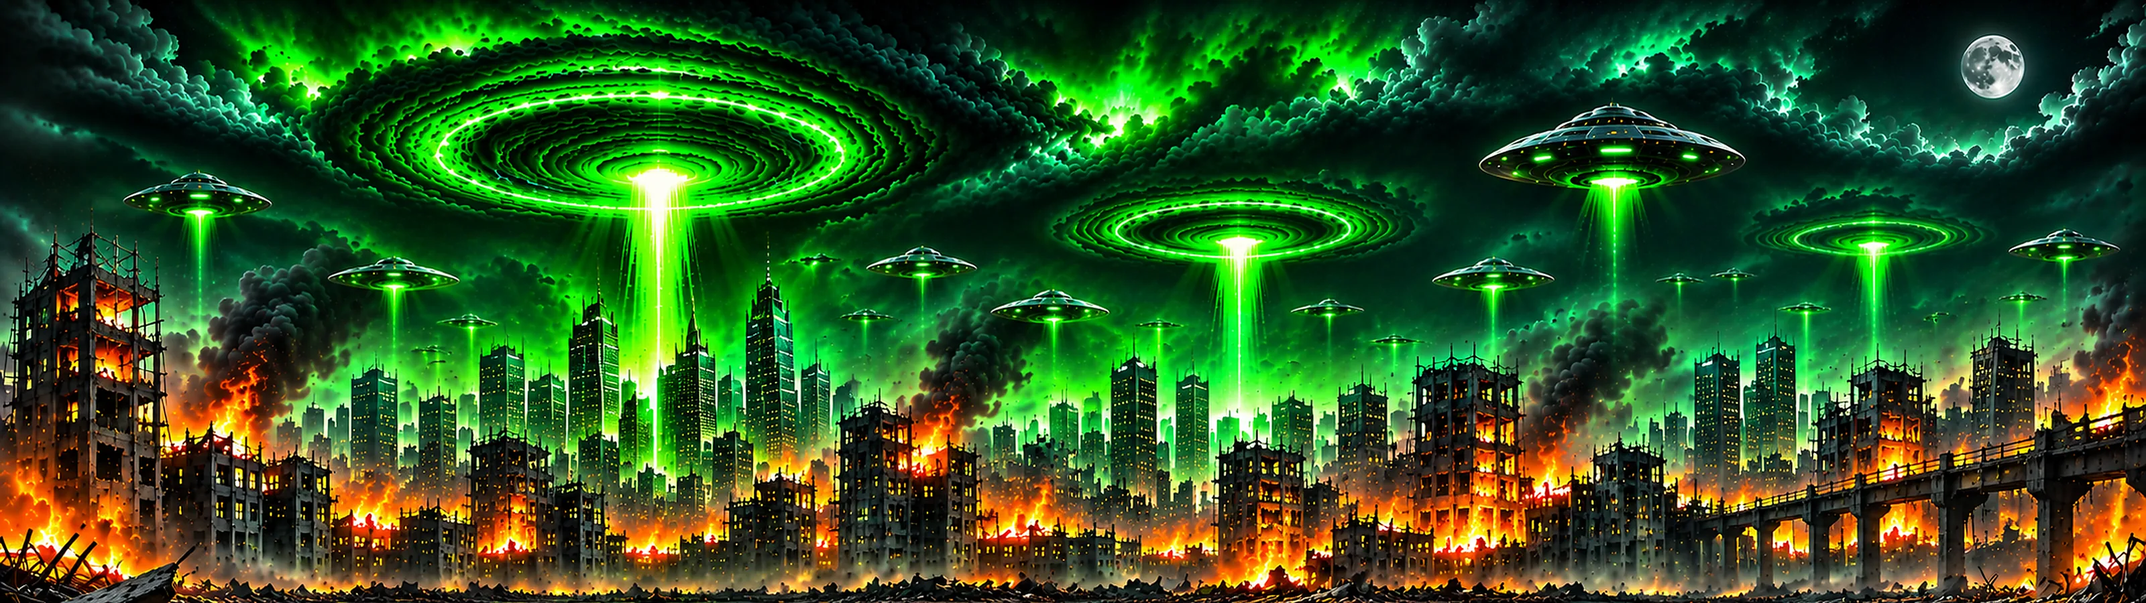
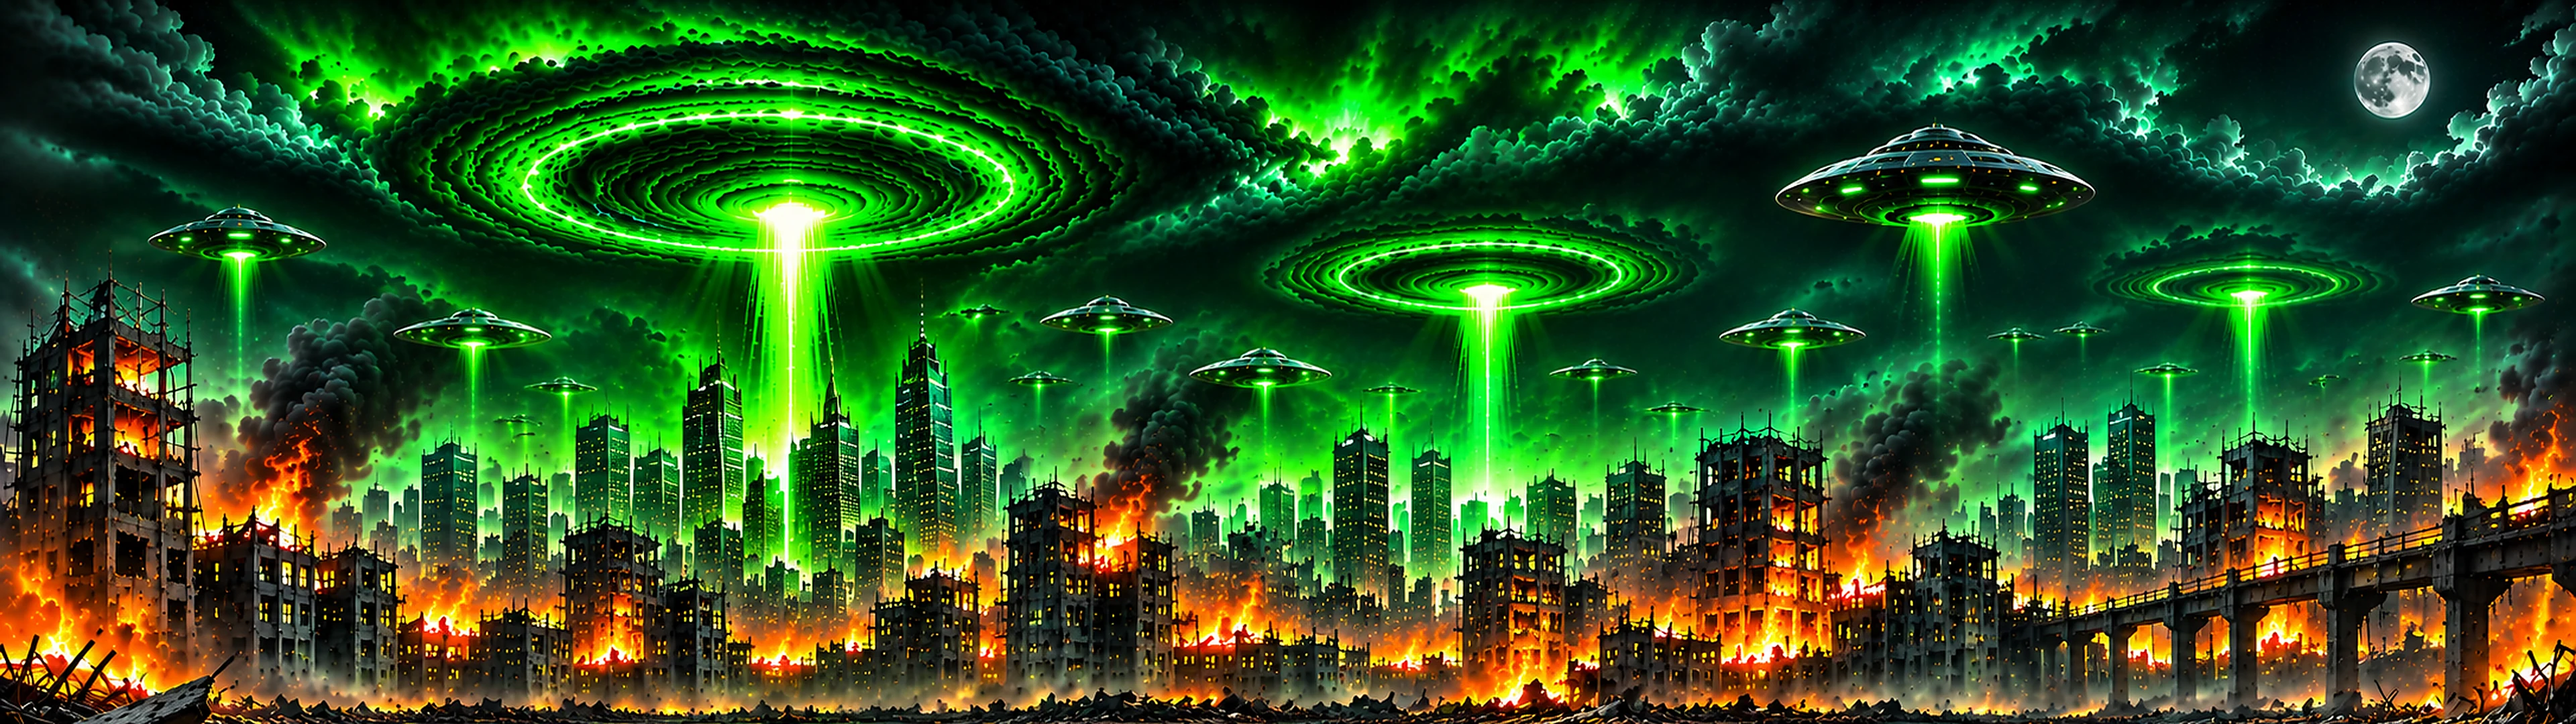
Invasión: el mapa vuelve a la lógica original (se mantienen las mejoras)
- El mapa es solo la cuadra otra vez: sin edificios ni fábricas a los costados.
- La cámara llega de 0 al ancho y de la calle a lo más alto, como al principio;
  la calle y el piso de adelante llenan la pantalla hasta abajo.
- Fondo (wallpaper) a resolución completa, sin pixelarse.
- Se mantienen explosiones, aliens, sangre por especie, autos, sonidos, etc.

Claude-Session: https://claude.ai/code/session_01WPvz5PN7gSQSsHQttdLk8C

diff --git a/src/features/games/invasionArt.ts b/src/features/games/invasionArt.ts
@@ -8,7 +8,7 @@
 // después se copia: así se puede dibujar con mucho detalle sin que se trabe.
 import { drawUfoCraftAt } from './kombatPenUfo';
 import {
-  alienKind, BLOOD, CITY_TOP, SIDE_W, GAME_SECONDS, hitbox, rainAt, ROCKET_TIME, type Rocket, ROAD_Y, ruinAt, SHOP_NAMES, UFO_FROM, type Building, type Furniture, type Invasion, type Item, type Room,
+  alienKind, BLOOD, CITY_TOP, GAME_SECONDS, hitbox, rainAt, ROCKET_TIME, type Rocket, ROAD_Y, ruinAt, SHOP_NAMES, UFO_FROM, type Building, type Furniture, type Invasion, type Item, type Room,
 } from './invasion';
 import { ANOMALIES } from './invasionAnomalies';
 import bazookaFxUrl from './assets/invasion/efectos/bazooka.webp';
@@ -34,148 +34,6 @@ function skyColors(t: number) {
   const low = mixColor(mixColor(mixColor('#e0f2fe', '#fcd34d', dusk * 0.8), '#4b5563', rain * 0.8), '#ea580c', k * 0.8);
   return { top, mid, low };
 }
-// ---------- Los edificios de los costados ----------
-// Más allá de la cuadra (antes de x = 0 y después del ancho) el escenario sigue con edificios cerrados (no se ve
-// adentro): torres, oficinas, locales con su cartel, una fábrica y obras en construcción con grúa. Son decorado:
-// no se rompen. Hay gente en las ventanas (siluetas que se mueven) y la vereda de adelante es parte de la calle,
-// así que caminan personas y aliens. Se arman siempre iguales (`sideBlocks`), hasta el final del mapa (`SIDE_W`).
-type SideKind = 'tower' | 'office' | 'shops' | 'factory' | 'works';
-interface SideBlock { x: number; w: number; h: number; kind: SideKind; hue: number; seed: number }
-const SIDE_KINDS: SideKind[] = ['tower', 'shops', 'works', 'office', 'factory', 'tower', 'shops', 'office', 'works', 'tower', 'factory', 'shops'];
-const SIDE_SIGNS = ['KIOSCO', 'FARMACIA', 'PANADERÍA', 'FERRETERÍA', 'BAR', 'PIZZERÍA', 'LAVADERO', 'CERRAJERÍA', 'ÓPTICA', 'ALMACÉN'];
-let sideCache: { width: number; blocks: SideBlock[] } | null = null;
-function sideBlocks(width: number) {
-  if (sideCache?.width === width) return sideCache.blocks;
-  const blocks: SideBlock[] = [];
-  // Hasta el final del mapa justo (`SIDE_W`): el último edificio se estira o se achica para terminar ahí.
-  for (const dir of [-1, 1]) {
-    let edge = dir < 0 ? -1.4 : width + 1.4;
-    const end = dir < 0 ? -SIDE_W : width + SIDE_W;
-    for (let i = 0; Math.abs(end - edge) > 0.5; i++) {
-      const seed = (dir < 0 ? 100 : 200) + i, kind = SIDE_KINDS[(i + (dir < 0 ? 0 : 5)) % SIDE_KINDS.length], q = hash(seed * 7.1);
-      let w = kind === 'factory' ? 18 + q * 7 : kind === 'shops' ? 10 + q * 5 : 10 + q * 5;
-      const left = Math.abs(end - edge);
-      if (left - w < 9) w = left; // el último llega hasta el borde
-      const h = kind === 'tower' ? 30 + q * 18 : kind === 'office' ? 24 + q * 14 : kind === 'works' ? 20 + q * 16 : kind === 'factory' ? 9 + q * 3 : 8.6 + q * 3;
-      const x = dir < 0 ? edge - w : edge;
-      blocks.push({ x, w, h, kind, hue: Math.floor(hash(seed * 3.3) * 360), seed });
-      if (w === left) break;
-      edge = dir < 0 ? x - (1.2 + hash(seed) * 1.6) : x + w + 1.2 + hash(seed) * 1.6;
-    }
-  }
-  sideCache = { width, blocks };
-  return blocks;
-}
-function drawSideBlocks(ctx: CanvasRenderingContext2D, g: Invasion, v: View) {
-  const s = v.s;
-  for (const b of sideBlocks(g.width)) {
-    if (!visible(v, b.x - 6, b.x + b.w + 6, 0, b.h + 12)) continue;
-    const x = X(v, b.x), w = b.w * s, base = Y(v, 0), top = Y(v, b.h);
-    if (b.kind === 'works') { drawSideWorks(ctx, b, v, g.time); continue; }
-    // Fachada.
-    const wall = b.kind === 'factory' ? `hsl(${8 + (b.hue % 18)},38%,34%)` : b.kind === 'office' ? `hsl(${200 + (b.hue % 30)},16%,40%)` : `hsl(${b.hue},${12 + (b.seed % 10)}%,${46 + (b.seed % 12)}%)`;
-    const shade = ctx.createLinearGradient(x, 0, x + w, 0); shade.addColorStop(0, 'rgba(0,0,0,0.18)'); shade.addColorStop(0.15, 'rgba(0,0,0,0)'); shade.addColorStop(0.85, 'rgba(0,0,0,0)'); shade.addColorStop(1, 'rgba(0,0,0,0.25)');
-    ctx.fillStyle = wall; ctx.fillRect(x, top, w, base - top); ctx.fillStyle = shade; ctx.fillRect(x, top, w, base - top);
-    ctx.fillStyle = 'rgba(0,0,0,0.3)'; ctx.fillRect(x - s * 0.1, top - s * 0.25, w + s * 0.2, s * 0.3); // cornisa
-    if (b.kind === 'factory') { drawSideFactory(ctx, b, v, g.time); continue; }
-    // Ventanas (de lejos, solo franjas).
-    const shopH = 3.1, fh = b.kind === 'office' ? 2.6 : 2.8, cols = Math.max(2, Math.round(b.w / (b.kind === 'office' ? 1.4 : 1.8)));
-    const cw = b.w / cols, small = cw * s < 5;
-    for (let fy = shopH + 0.5; fy + fh * 0.6 < b.h - 0.4; fy += fh) {
-      if (small) { ctx.fillStyle = 'rgba(15,23,42,0.45)'; ctx.fillRect(x + s * 0.4, Y(v, fy + fh * 0.65), w - s * 0.8, fh * 0.45 * s); continue; }
-      for (let c = 0; c < cols; c++) {
-        const lit = hash(b.seed * 13 + c * 7 + fy * 3) < 0.28;
-        ctx.fillStyle = b.kind === 'office' ? (lit ? '#fde68a' : '#1e3a5f') : lit ? '#fcd34d' : '#1f2a37';
-        const wx = b.x + c * cw + cw * (b.kind === 'office' ? 0.08 : 0.22), ww = cw * (b.kind === 'office' ? 0.84 : 0.56);
-        ctx.fillRect(X(v, wx), Y(v, fy + fh * 0.72), ww * s, fh * 0.52 * s);
-        const who = hash(b.seed * 5 + c * 11 + fy * 7);
-        if (ww * s > 6) { // en cada ventana hay alguien: silueta que va y viene (a contraluz si está prendida)
-          const px = wx + ww * (0.3 + 0.4 * (0.5 + 0.5 * Math.sin(g.time * (0.3 + who) + who * 20))), ph = fh * 0.4, hr = ph * 0.2;
-          ctx.fillStyle = lit ? 'rgba(30,20,10,0.78)' : 'rgba(148,163,184,0.5)';
-          ctx.beginPath(); ctx.arc(X(v, px), Y(v, fy + fh * 0.2 + ph - hr), hr * s, 0, Math.PI * 2); ctx.fill();
-          ctx.beginPath(); ctx.ellipse(X(v, px), Y(v, fy + fh * 0.2), hr * 1.9 * s, ph * 0.6 * s, 0, Math.PI, 0); ctx.fill();
-        }
-        if (b.kind !== 'office') { ctx.fillStyle = 'rgba(255,255,255,0.12)'; ctx.fillRect(X(v, wx), Y(v, fy + fh * 0.72), ww * s * 0.35, fh * 0.52 * s); }
-      }
-    }
-    // Planta baja: locales con vidriera, toldo y cartel (las torres y las oficinas tienen hall de entrada).
-    if (b.kind === 'shops' || b.kind === 'tower') {
-      const n = b.kind === 'shops' ? Math.max(1, Math.round(b.w / 5)) : 1, lw = b.w / n;
-      for (let i = 0; i < n; i++) {
-        const lx = b.x + i * lw, color = `hsl(${(b.hue + i * 97) % 360},62%,44%)`;
-        ctx.fillStyle = '#0f172a'; ctx.fillRect(X(v, lx + 0.3), Y(v, 2.3), (lw - 0.6) * s, 2.3 * s); // vidriera
-        ctx.fillStyle = 'rgba(253,224,71,0.18)'; ctx.fillRect(X(v, lx + 0.3), Y(v, 2.3), (lw - 0.6) * s, 2.3 * s);
-        ctx.fillStyle = '#334155'; ctx.fillRect(X(v, lx + lw * 0.5 - 0.45), Y(v, 2.1), 0.9 * s, 2.1 * s); // puerta
-        for (let q = 0; q < 2; q++) { const hq = hash(b.seed * 9 + i * 4 + q); sidePerson(ctx, v, lx + 0.8 + (lw - 1.6) * ((hq + Math.sin(g.time * (0.2 + hq * 0.3) + hq * 9) * 0.15 + 1) % 1), 0, 1.65, (b.hue + q * 120 + i * 60) % 360); } // el que atiende y un cliente
-        for (let k = 0; k < 6; k++) { ctx.fillStyle = k % 2 ? '#f8fafc' : color; ctx.fillRect(X(v, lx + 0.2 + k * (lw - 0.4) / 6), Y(v, 2.85), (lw - 0.4) / 6 * s + 0.5, 0.5 * s); } // toldo
-        if (s * lw > 40) { // cartel
-          ctx.fillStyle = color; ctx.fillRect(X(v, lx + 0.4), Y(v, 3.6), (lw - 0.8) * s, 0.65 * s);
-          ctx.fillStyle = '#fff'; ctx.font = font(800, Math.max(7, s * 0.42)); ctx.textAlign = 'center'; ctx.textBaseline = 'middle';
-          ctx.fillText(SIDE_SIGNS[(b.seed + i) % SIDE_SIGNS.length], X(v, lx + lw / 2), Y(v, 3.28), (lw - 1) * s);
-        }
-      }
-    } else { ctx.fillStyle = '#0f172a'; ctx.fillRect(X(v, b.x + b.w * 0.3), Y(v, 2.8), b.w * 0.4 * s, 2.8 * s); ctx.fillStyle = 'rgba(147,197,253,0.25)'; ctx.fillRect(X(v, b.x + b.w * 0.3), Y(v, 2.8), b.w * 0.4 * s, 2.8 * s); sidePerson(ctx, v, b.x + b.w * (0.4 + 0.2 * (0.5 + 0.5 * Math.sin(g.time * 0.3 + b.seed))), 0, 1.7, b.hue); } // el portero
-    // Techo: tanque de agua o antena.
-    if (b.seed % 3 === 0) { ctx.fillStyle = '#57534e'; ctx.fillRect(X(v, b.x + b.w * 0.65), Y(v, b.h + 2.2), 1.8 * s, 1.6 * s); ctx.fillRect(X(v, b.x + b.w * 0.67), Y(v, b.h + 0.6), 0.15 * s, 0.6 * s); ctx.fillRect(X(v, b.x + b.w * 0.65 + 1.5), Y(v, b.h + 0.6), 0.15 * s, 0.6 * s); }
-    else if (b.seed % 3 === 1) { ctx.strokeStyle = '#334155'; ctx.lineWidth = Math.max(1, s * 0.08); ctx.beginPath(); ctx.moveTo(X(v, b.x + b.w * 0.3), Y(v, b.h)); ctx.lineTo(X(v, b.x + b.w * 0.3), Y(v, b.h + 5)); ctx.stroke(); ctx.fillStyle = '#ef4444'; ctx.beginPath(); ctx.arc(X(v, b.x + b.w * 0.3), Y(v, b.h + 5), Math.max(1.5, s * 0.15), 0, Math.PI * 2); ctx.fill(); }
-  }
-}
-// Una persona de lejos (cabeza, cuerpo, piernas), parada en `y`, de `h` metros; con casco si es obrero.
-function sidePerson(ctx: CanvasRenderingContext2D, v: View, x: number, y: number, h: number, hue: number, helmet = false) {
-  const s = v.s; if (h * s < 6) return;
-  ctx.fillStyle = '#1f2937'; ctx.fillRect(X(v, x - h * 0.09), Y(v, y + h * 0.45), h * 0.07 * s, h * 0.45 * s); ctx.fillRect(X(v, x + h * 0.02), Y(v, y + h * 0.45), h * 0.07 * s, h * 0.45 * s);
-  ctx.fillStyle = helmet ? '#f97316' : `hsl(${hue},55%,45%)`; ctx.fillRect(X(v, x - h * 0.13), Y(v, y + h * 0.8), h * 0.26 * s, h * 0.37 * s);
-  ctx.fillStyle = '#e0b48a'; ctx.beginPath(); ctx.arc(X(v, x), Y(v, y + h * 0.9), h * 0.1 * s, 0, Math.PI * 2); ctx.fill();
-  if (helmet) { ctx.fillStyle = '#facc15'; ctx.beginPath(); ctx.arc(X(v, x), Y(v, y + h * 0.93), h * 0.11 * s, Math.PI, 0); ctx.fill(); }
-}
-function drawSideFactory(ctx: CanvasRenderingContext2D, b: SideBlock, v: View, t: number) {
-  const s = v.s, teeth = Math.max(3, Math.round(b.w / 4)), tw = b.w / teeth;
-  ctx.fillStyle = '#44403c';
-  for (let i = 0; i < teeth; i++) { const x0 = b.x + i * tw; ctx.beginPath(); ctx.moveTo(X(v, x0), Y(v, b.h)); ctx.lineTo(X(v, x0), Y(v, b.h + 2.2)); ctx.lineTo(X(v, x0 + tw), Y(v, b.h)); ctx.fill(); ctx.fillStyle = 'rgba(147,197,253,0.35)'; ctx.fillRect(X(v, x0) + 1, Y(v, b.h + 2), Math.max(1, s * 0.3), 1.8 * s); ctx.fillStyle = '#44403c'; } // techo en serrucho
-  for (const cx of [0.18, 0.32]) { // chimeneas
-    ctx.fillStyle = '#7c2d12'; ctx.fillRect(X(v, b.x + b.w * cx), Y(v, b.h + 9), 1.1 * s, 9 * s);
-    ctx.fillStyle = '#e7e5e4'; ctx.fillRect(X(v, b.x + b.w * cx), Y(v, b.h + 7.6), 1.1 * s, 0.5 * s); ctx.fillRect(X(v, b.x + b.w * cx), Y(v, b.h + 5.6), 1.1 * s, 0.5 * s);
-  }
-  ctx.fillStyle = 'rgba(15,23,42,0.75)';
-  for (let x0 = b.x + 1; x0 < b.x + b.w - 1.5; x0 += 2.2) ctx.fillRect(X(v, x0), Y(v, b.h - 1.2), 1.4 * s, 1.6 * s); // ventanas altas
-  ctx.fillStyle = '#6b7280'; ctx.fillRect(X(v, b.x + b.w * 0.55), Y(v, 4.2), 4.5 * s, 4.2 * s); // portón
-  for (let q = 0; q < 3; q++) sidePerson(ctx, v, b.x + 1.5 + ((q * 0.31 + t * 0.02 * (q + 1)) % 1) * (b.w * 0.5 - 2), 0, 1.7, 30, true); // operarios
-  ctx.strokeStyle = 'rgba(0,0,0,0.3)'; ctx.lineWidth = 1;
-  for (let yy = 0.4; yy < 4.2; yy += 0.4) { ctx.beginPath(); ctx.moveTo(X(v, b.x + b.w * 0.55), Y(v, yy)); ctx.lineTo(X(v, b.x + b.w * 0.55 + 4.5), Y(v, yy)); ctx.stroke(); }
-  if (s * 8 > 40) { ctx.fillStyle = '#fef3c7'; ctx.font = font(900, Math.max(7, s * 0.7)); ctx.textAlign = 'left'; ctx.textBaseline = 'middle'; ctx.fillText('FÁBRICA', X(v, b.x + 1), Y(v, b.h - 2.6)); }
-}
-// Obra en construcción: losas de hormigón con columnas, los pisos de arriba solo esqueleto, andamio con media
-// sombra naranja y una grúa torre.
-function drawSideWorks(ctx: CanvasRenderingContext2D, b: SideBlock, v: View, t: number) {
-  const s = v.s, fh = 2.9, built = Math.floor(b.h / fh * (0.45 + hash(b.seed) * 0.25));
-  const floors = Math.floor(b.h / fh), cols = Math.max(3, Math.round(b.w / 3.4));
-  for (let k = 0; k < floors; k++) {
-    const y = k * fh;
-    if (k < built) { ctx.fillStyle = 'rgba(120,113,108,0.55)'; ctx.fillRect(X(v, b.x), Y(v, y + fh), b.w * s, fh * s); } // paredes a medio hacer
-    ctx.fillStyle = '#a8a29e'; ctx.fillRect(X(v, b.x - 0.3), Y(v, y + fh), (b.w + 0.6) * s, 0.35 * s); // losa
-    ctx.fillStyle = '#78716c';
-    for (let c = 0; c <= cols; c++) ctx.fillRect(X(v, b.x + c * b.w / cols - 0.2), Y(v, y + fh), 0.4 * s, fh * s); // columnas
-    for (let q = 0; q < 2; q++) { const hq = hash(b.seed * 3 + k * 5 + q); sidePerson(ctx, v, b.x + 0.8 + (b.w - 1.6) * ((hq + t * 0.015 * (0.5 + hq)) % 1), y + (k ? 0.35 : 0), 1.7, 30, true); } // albañiles en cada piso
-  }
-  // Andamio con media sombra.
-  ctx.strokeStyle = 'rgba(234,88,12,0.9)'; ctx.lineWidth = Math.max(1, s * 0.06);
-  const ax = b.x + b.w + 0.4;
-  for (let k = 0; k < built + 1; k++) { ctx.beginPath(); ctx.moveTo(X(v, ax), Y(v, k * fh)); ctx.lineTo(X(v, ax + 1.2), Y(v, (k + 1) * fh)); ctx.moveTo(X(v, ax), Y(v, (k + 1) * fh)); ctx.lineTo(X(v, ax + 1.2), Y(v, (k + 1) * fh)); ctx.stroke(); }
-  ctx.fillStyle = 'rgba(249,115,22,0.35)'; ctx.fillRect(X(v, b.x), Y(v, built * fh), b.w * s * 0.5, built * fh * 0.6 * s);
-  // Grúa torre.
-  const mx = b.x + b.w * 0.7, mh = b.h + 10, jib = b.w * 1.5;
-  ctx.strokeStyle = '#facc15'; ctx.lineWidth = Math.max(1, s * 0.1);
-  ctx.beginPath(); ctx.moveTo(X(v, mx), Y(v, 0)); ctx.lineTo(X(v, mx), Y(v, mh)); ctx.moveTo(X(v, mx + 0.9), Y(v, 0)); ctx.lineTo(X(v, mx + 0.9), Y(v, mh)); ctx.stroke();
-  ctx.lineWidth = Math.max(0.6, s * 0.04);
-  for (let yy = 0; yy < mh; yy += 1.2) { ctx.beginPath(); ctx.moveTo(X(v, mx), Y(v, yy)); ctx.lineTo(X(v, mx + 0.9), Y(v, yy + 1.2)); ctx.stroke(); }
-  ctx.lineWidth = Math.max(1, s * 0.1);
-  ctx.beginPath(); ctx.moveTo(X(v, mx - jib * 0.3), Y(v, mh)); ctx.lineTo(X(v, mx + jib), Y(v, mh)); ctx.moveTo(X(v, mx - jib * 0.3), Y(v, mh + 0.8)); ctx.lineTo(X(v, mx + jib), Y(v, mh + 0.8)); ctx.stroke();
-  ctx.fillStyle = '#57534e'; ctx.fillRect(X(v, mx - jib * 0.3), Y(v, mh + 0.2), 2 * s, 1.6 * s); // contrapeso
-  const hook = mx + jib * (0.5 + hash(b.seed + 1) * 0.4), drop = mh - 6 - hash(b.seed + 2) * 8;
-  ctx.strokeStyle = '#1f2937'; ctx.lineWidth = Math.max(0.6, s * 0.03); ctx.beginPath(); ctx.moveTo(X(v, hook), Y(v, mh)); ctx.lineTo(X(v, hook), Y(v, drop)); ctx.stroke();
-  ctx.fillStyle = '#92400e'; ctx.fillRect(X(v, hook - 1), Y(v, drop), 2 * s, 0.5 * s); // vigas colgando
-  if (s * 6 > 40) { ctx.fillStyle = '#fde047'; ctx.fillRect(X(v, b.x + 0.5), Y(v, 3.4), 5 * s, 1 * s); ctx.fillStyle = '#111'; ctx.font = font(900, Math.max(6, s * 0.45)); ctx.textAlign = 'center'; ctx.textBaseline = 'middle'; ctx.fillText('OBRA EN CONSTRUCCIÓN', X(v, b.x + 3), Y(v, 2.9), 4.8 * s); }
-}
 
 // El fondo de todo (la última capa, detrás de los edificios): la imagen del usuario (Invasion_Cielo_Portales), pegada
 // a la ciudad: se mueve con ella (como si estuviera pintada detrás de los edificios). Va de la calle hasta arriba de
@@ -183,9 +41,10 @@ function drawSideWorks(ctx: CanvasRenderingContext2D, b: SideBlock, v: View, t: 
 // note la unión, a lo largo de todo el mapa. Arriba de la imagen, el color oscuro de sus nubes. Mientras carga, el
 // cielo de antes.
 const wallpaper = typeof Image !== 'undefined' ? Object.assign(new Image(), { src: wallpaperUrl }) : null;
-// Una sola imagen, pegada a la ciudad, que cubre todo lo que se puede llegar a ver: de punta a punta del mapa más
-// media pantalla a cada lado, y de la vereda a lo más alto más media pantalla. Se agranda parejo (sin deformarla)
-// hasta cubrir eso y se centra.
+// Una sola imagen, pegada a la ciudad (se mueve con ella), que cubre lo que se puede ver: la cuadra más media
+// pantalla a cada lado y de la calle a lo más alto más media pantalla. Se agranda parejo hasta cubrir eso; a esa
+// escala la imagen (3840 × 1080) se ve casi a su tamaño, sin pixelarse. Con la mira (mucho zoom) no se agranda con
+// el zoom: se corre un poco con la vista, como algo lejano.
 export function drawWallpaper(ctx: CanvasRenderingContext2D, g: Invasion, v: View) {
   if (!wallpaper?.complete || !wallpaper.naturalWidth) {
     const c = skyColors(g.time), sky = ctx.createLinearGradient(0, 0, 0, v.h);
@@ -194,11 +53,14 @@ export function drawWallpaper(ctx: CanvasRenderingContext2D, g: Invasion, v: Vie
     return;
   }
   const halfH = (CITY_TOP + 3.4) / 2, halfW = halfH * 2.2;
-  const x0 = -SIDE_W - halfW, x1 = g.width + SIDE_W + halfW, y0 = 0.3 - halfH, y1 = CITY_TOP + halfH;
+  const x0 = -halfW, x1 = g.width + halfW, y0 = -4.5, y1 = CITY_TOP + halfH;
   const k = Math.max((x1 - x0) / wallpaper.naturalWidth, (y1 - y0) / wallpaper.naturalHeight), W = wallpaper.naturalWidth * k, H = wallpaper.naturalHeight * k;
   const left = (x0 + x1) / 2 - W / 2, top = (y0 + y1) / 2 + H / 2;
+  const s = Math.min(v.s, 26); // escala del fondo (con la mira, no sigue al zoom)
+  const px = v.w / 2 + (left - v.cx) * s, py = v.h / 2 - (top - v.cy) * s;
   ctx.fillStyle = '#040b07'; ctx.fillRect(0, 0, v.w, v.h);
-  ctx.drawImage(wallpaper, X(v, left), Y(v, top), W * v.s, H * v.s);
+  ctx.imageSmoothingEnabled = true; ctx.imageSmoothingQuality = 'high';
+  ctx.drawImage(wallpaper, px, py, W * s, H * s);
 }
 // `wall`: si pinta también el fondo.
 function drawSky(ctx: CanvasRenderingContext2D, g: Invasion, v: View, wall: boolean) {
@@ -213,7 +75,7 @@ function drawSky(ctx: CanvasRenderingContext2D, g: Invasion, v: View, wall: bool
     for (let i = 0; i < 40; i++) { const lx = mx + (i / 39 - 0.5) * v.s * 110, on = Math.floor(g.time * 2 + i) % 3; ctx.fillStyle = on ? '#22d3ee' : '#0e7490'; ctx.beginPath(); ctx.arc(lx, my + v.s * 2.6 * Math.sqrt(Math.max(0, 1 - ((lx - mx) / (v.s * 60)) ** 2)), v.s * 0.25, 0, Math.PI * 2); ctx.fill(); }
     ctx.globalAlpha = 1;
   }
-  drawSideBlocks(ctx, g, v); // los edificios de los costados (más allá de la cuadra)
+
 }
 
 // ---------- Habitaciones (lo que no se mueve, en una imagen) ----------
@@ -784,7 +646,7 @@ function drawStreetBack(ctx: CanvasRenderingContext2D, g: Invasion, v: View) {
   // Vereda de enfrente (de donde mira el francotirador) y lo de abajo.
   ctx.fillStyle = '#57534e'; ctx.fillRect(0, Y(v, -3.72), v.w, 0.1 * s);
   const near = ctx.createLinearGradient(0, Y(v, -3.8), 0, Y(v, -6)); near.addColorStop(0, '#78716c'); near.addColorStop(1, '#292524');
-  ctx.fillStyle = near; ctx.fillRect(0, Y(v, -3.8), v.w, 2.4 * s); // (más abajo, el fondo)
+  ctx.fillStyle = near; ctx.fillRect(0, Y(v, -3.8), v.w, Math.max(0, v.h - Y(v, -3.8)));
   ctx.fillStyle = '#fde047'; for (let xx = Math.floor((v.cx - v.w / s) / 3) * 3; xx < v.cx + v.w / s; xx += 3) ctx.fillRect(X(v, xx), Y(v, ROAD_Y - 0.25), 1.6 * s, 0.07 * s);
   for (let i = 0; i < g.buildings.length - 1; i += 3) {
     const b = g.buildings[i], next = g.buildings[i + 1];
@@ -1098,8 +960,6 @@ export function paintCity(ctx: CanvasRenderingContext2D, g: Invasion, v: View, n
     }
     if (box.defused) { ctx.fillStyle = 'rgba(34,197,94,0.95)'; ctx.font = font(900, v.s * 0.3); ctx.textAlign = 'center'; ctx.fillText('✓', px, py - v.s * 0.6); }
   }
-  // La calle, la vereda, la gente de la vereda, los árboles y los autos solo dentro del mapa: afuera se ve el fondo.
-  ctx.save(); ctx.beginPath(); ctx.rect(X(v, -SIDE_W - 1), -10, (g.width + 2 * SIDE_W + 2) * v.s, v.h + 20); ctx.clip();
   drawStreetBack(ctx, g, v);
   for (const p of g.people) {
     if (p.gone || p.room >= 0) continue;
@@ -1108,7 +968,6 @@ export function paintCity(ctx: CanvasRenderingContext2D, g: Invasion, v: View, n
   }
   drawTrees(ctx, g, v);
   for (const c of g.cars) drawCar(ctx, c, v, g.time);
-  ctx.restore();
   for (const u of g.ufos) drawUfo(ctx, u, v, g.time);
   drawLifeBars(ctx, g, v);
   for (const p of g.people) {

diff --git a/src/features/games/InvasionGame.tsx b/src/features/games/InvasionGame.tsx
@@ -3,7 +3,7 @@ import { useCallback, useEffect, useLayoutEffect, useRef, useState } from 'react
 import { TouchGrips } from './TouchGrips';
 import { fitScale, pixelRatio, useFitScreen } from './fitScreen';
 import { Link } from 'react-router-dom';
-import { ALIEN_KINDS, ALIEN_POINTS, HUMAN_PENALTY, ALIEN_TOTAL, aliveAliens, aliveHumans, CITY_TOP, GAME_SECONDS, HUMAN_TOTAL, SIDE_W, newInvasion, shoot, step, takeEvents, WEAPONS, type Invasion as Game, type Outcome, type Weapon } from './invasion';
+import { ALIEN_KINDS, ALIEN_POINTS, HUMAN_PENALTY, ALIEN_TOTAL, aliveAliens, aliveHumans, CITY_TOP, GAME_SECONDS, HUMAN_TOTAL, newInvasion, shoot, step, takeEvents, WEAPONS, type Invasion as Game, type Outcome, type Weapon } from './invasion';
 import { ANOMALIES } from './invasionAnomalies';
 import { isWoman } from './invasionPeople';
 import { drawMinimap, drawRockets, paintCity, type View } from './invasionArt';
@@ -43,7 +43,6 @@ function createArsenal() {
 }
 const BREATH = 4; // segundos que se puede contener la respiración (Shift)
 const PAN = 26; // lo que se mueve la vista con las flechas (unidades por segundo)
-const AIM_LOW = 0.3; // lo más bajo que llega el "+": la vereda (donde camina la gente)
 const EDGE = 0.07; // franja de cada costado (fracción del ancho) donde el mouse suelto corre el escenario
 const TOUCH_SPEED = 1.35; // en el celular el escenario se corre un poco más que el dedo (se llega a todos lados sin soltar)
 // Lo que entra de alto en el fondo: de la calle a lo más alto de los edificios (la ciudad ocupa casi toda la pantalla).
@@ -98,12 +97,9 @@ export function Invasion() {
   // contenés la respiración) y el retroceso mueven el escenario, así el "+" siempre marca adónde va el tiro.
   const baseView = useCallback((w: number, h: number): Omit<View, 't' | 'dpr'> => {
     const g = gameRef.current, s = h / (TOP_Y - FLOOR_Y), a = aim.current, c = cam.current;
-    // El "+" queda siempre en el medio (como en el Counter-Strike) y llega justo hasta donde hay edificios con gente:
-    // de punta a punta del mapa (−SIDE_W a ancho + SIDE_W) y de la vereda (`AIM_LOW`) a lo más alto. Lo que se ve
-    // más allá es solo el fondo.
-    c.x = Math.max(-SIDE_W, Math.min(g.width + SIDE_W, c.x));
+    c.x = Math.max(0, Math.min(g.width, c.x));
     const vx = c.x;
-    c.y = Math.max(AIM_LOW, Math.min(TOP_Y, c.y));
+    c.y = Math.max(FLOOR_Y + 2.4, Math.min(TOP_Y, c.y));
     const k = a.holding && a.breath > 0 ? 0.15 : 1, amp = 7 / a.zoom * k, t = a.swayT;
     return {
       w, h, s,

diff --git a/src/features/games/invasion.ts b/src/features/games/invasion.ts
@@ -28,7 +28,7 @@ export const ALIEN_POINTS = 100;
 export const BAZOOKA_RADIUS = 4.2;
 // La calle sigue `SIDE_W` metros a cada lado de la cuadra (con edificios de decorado): la gente y los aliens de la
 // vereda caminan también por ahí y la vista llega hasta el final.
-export const SIDE_W = 70;
+export const SIDE_W = 0; // (el mapa es solo la cuadra, como al principio)
 export const streetLo = () => -SIDE_W + 0.5, streetHi = (g: { width: number }) => g.width + SIDE_W - 0.5;
 export const ROCKET_TIME = 5; // el misil de la bazooka tarda 5 s en llegar
 // Especies de aliens (mismo orden que `ALIEN_SPECIES` en invasionAliens: la especie es `id % 6`).
